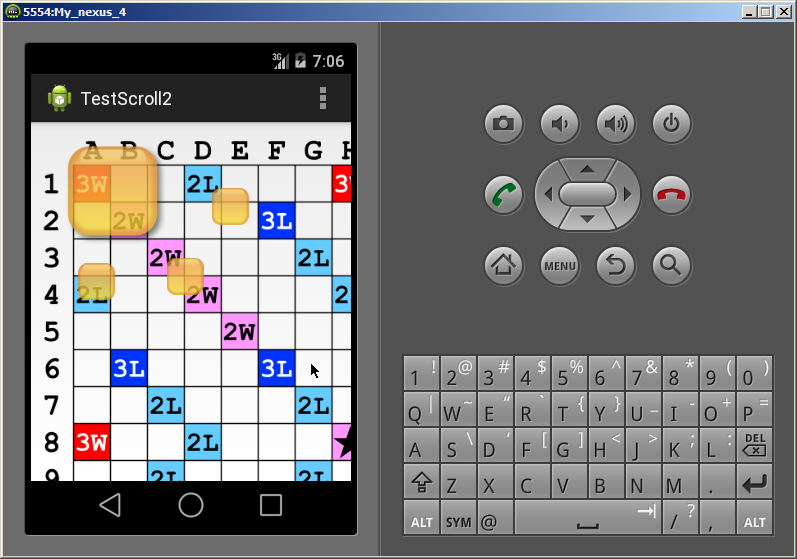
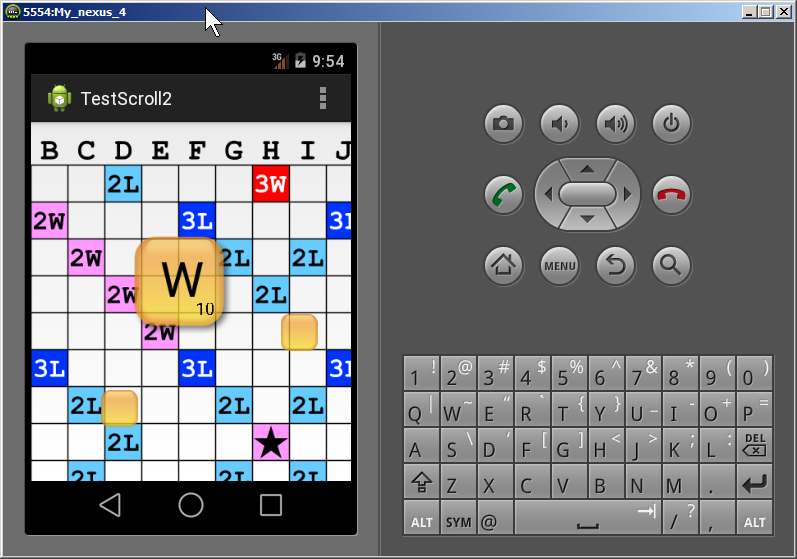
Draw letter and value at the big tile

diff --git a/TestScroll2/src/de/afarber/testscroll2/BigTile.java b/TestScroll2/src/de/afarber/testscroll2/BigTile.java
@@ -2,6 +2,8 @@ package de.afarber.testscroll2;
 
 import android.content.Context;
 import android.graphics.Canvas;
+import android.graphics.Paint;
+import android.graphics.Paint.Align;
 import android.graphics.Rect;
 import android.graphics.drawable.Drawable;
 
@@ -11,30 +13,57 @@ public class BigTile {
 	public int top;
 	public int width;
 	public int height;
-	public String letter;
-	public String value;
+	public String letter = "W";
+	public String value = "10";
 	
-	private int mLetterFontSize;
-	private int mValueFontSize;
+	private Paint mLetterPaint;
+	private Paint mValuePaint;
 	private Drawable mImage;
 	private int mSavedLeft;
 	private int mSavedTop;
 	
+	private float mLetterX; 
+	private float mLetterY;
+	
+	private float mValueX; 
+	private float mValueY;
+	
     public BigTile(Context context) {
-    	mLetterFontSize = context.getResources().getDimensionPixelSize(R.dimen.big_tile_letter);
-    	mValueFontSize = context.getResources().getDimensionPixelSize(R.dimen.big_tile_value);
-    	
     	mImage = context.getResources().getDrawable(R.drawable.big_tile);
         mImage.setAlpha(200);
     	width = mImage.getIntrinsicWidth();
     	height = mImage.getIntrinsicHeight();
     	mImage.setBounds(0, 0, width, height); 
+
+    	int letterSize = context.getResources().getDimensionPixelSize(R.dimen.big_tile_letter);
+    	mLetterPaint = new Paint();
+    	mLetterPaint.setTextSize(letterSize);
+    	mLetterPaint.setAntiAlias(true);
+    	//mLetterPaint.setTextAlign(Align.CENTER);
+    	
+    	Rect letterBounds = new Rect();  
+    	mLetterPaint.getTextBounds(letter, 0, letter.length(), letterBounds);
+    	mLetterX = 0.45f * (width - letterBounds.width());
+    	mLetterY = 0.45f * (height + letterBounds.height());
+
+    	int valueSize = context.getResources().getDimensionPixelSize(R.dimen.big_tile_value);
+    	mValuePaint = new Paint();
+    	mValuePaint.setTextSize(valueSize);
+    	mLetterPaint.setAntiAlias(true);
+    	//mValuePaint.setTextAlign(Align.RIGHT);
+
+    	Rect valueBounds = new Rect();  
+    	mValuePaint.getTextBounds(value, 0, value.length(), valueBounds);
+    	mValueX = width - 2.5f * valueBounds.width();
+    	mValueY = height - 2.0f * valueBounds.height();
     }
     
 	public void draw(Canvas canvas) {
 		canvas.save();
 		canvas.translate(left, top);
 		mImage.draw(canvas);
+		canvas.drawText(letter, mLetterX, mLetterY, mLetterPaint);
+		canvas.drawText(value, mValueX, mValueY, mValuePaint);
 		canvas.restore();
 	}
 
@@ -58,5 +87,9 @@ public class BigTile {
 	public void move(int x, int y) {
 		left = x;
 		top = y;
+	}
+	
+	public String toString() {
+		return letter + " " + value;
 	}
 }

diff --git a/TestScroll2/src/de/afarber/testscroll2/SmallTile.java b/TestScroll2/src/de/afarber/testscroll2/SmallTile.java
@@ -2,7 +2,6 @@ package de.afarber.testscroll2;
 
 import android.content.Context;
 import android.graphics.Canvas;
-import android.graphics.Rect;
 import android.graphics.drawable.Drawable;
 
 public class SmallTile {
@@ -58,5 +57,9 @@ public class SmallTile {
 	public void move(int x, int y) {
 		left = x;
 		top = y;
+	}
+	
+	public String toString() {
+		return letter + " " + value;
 	}
 }
